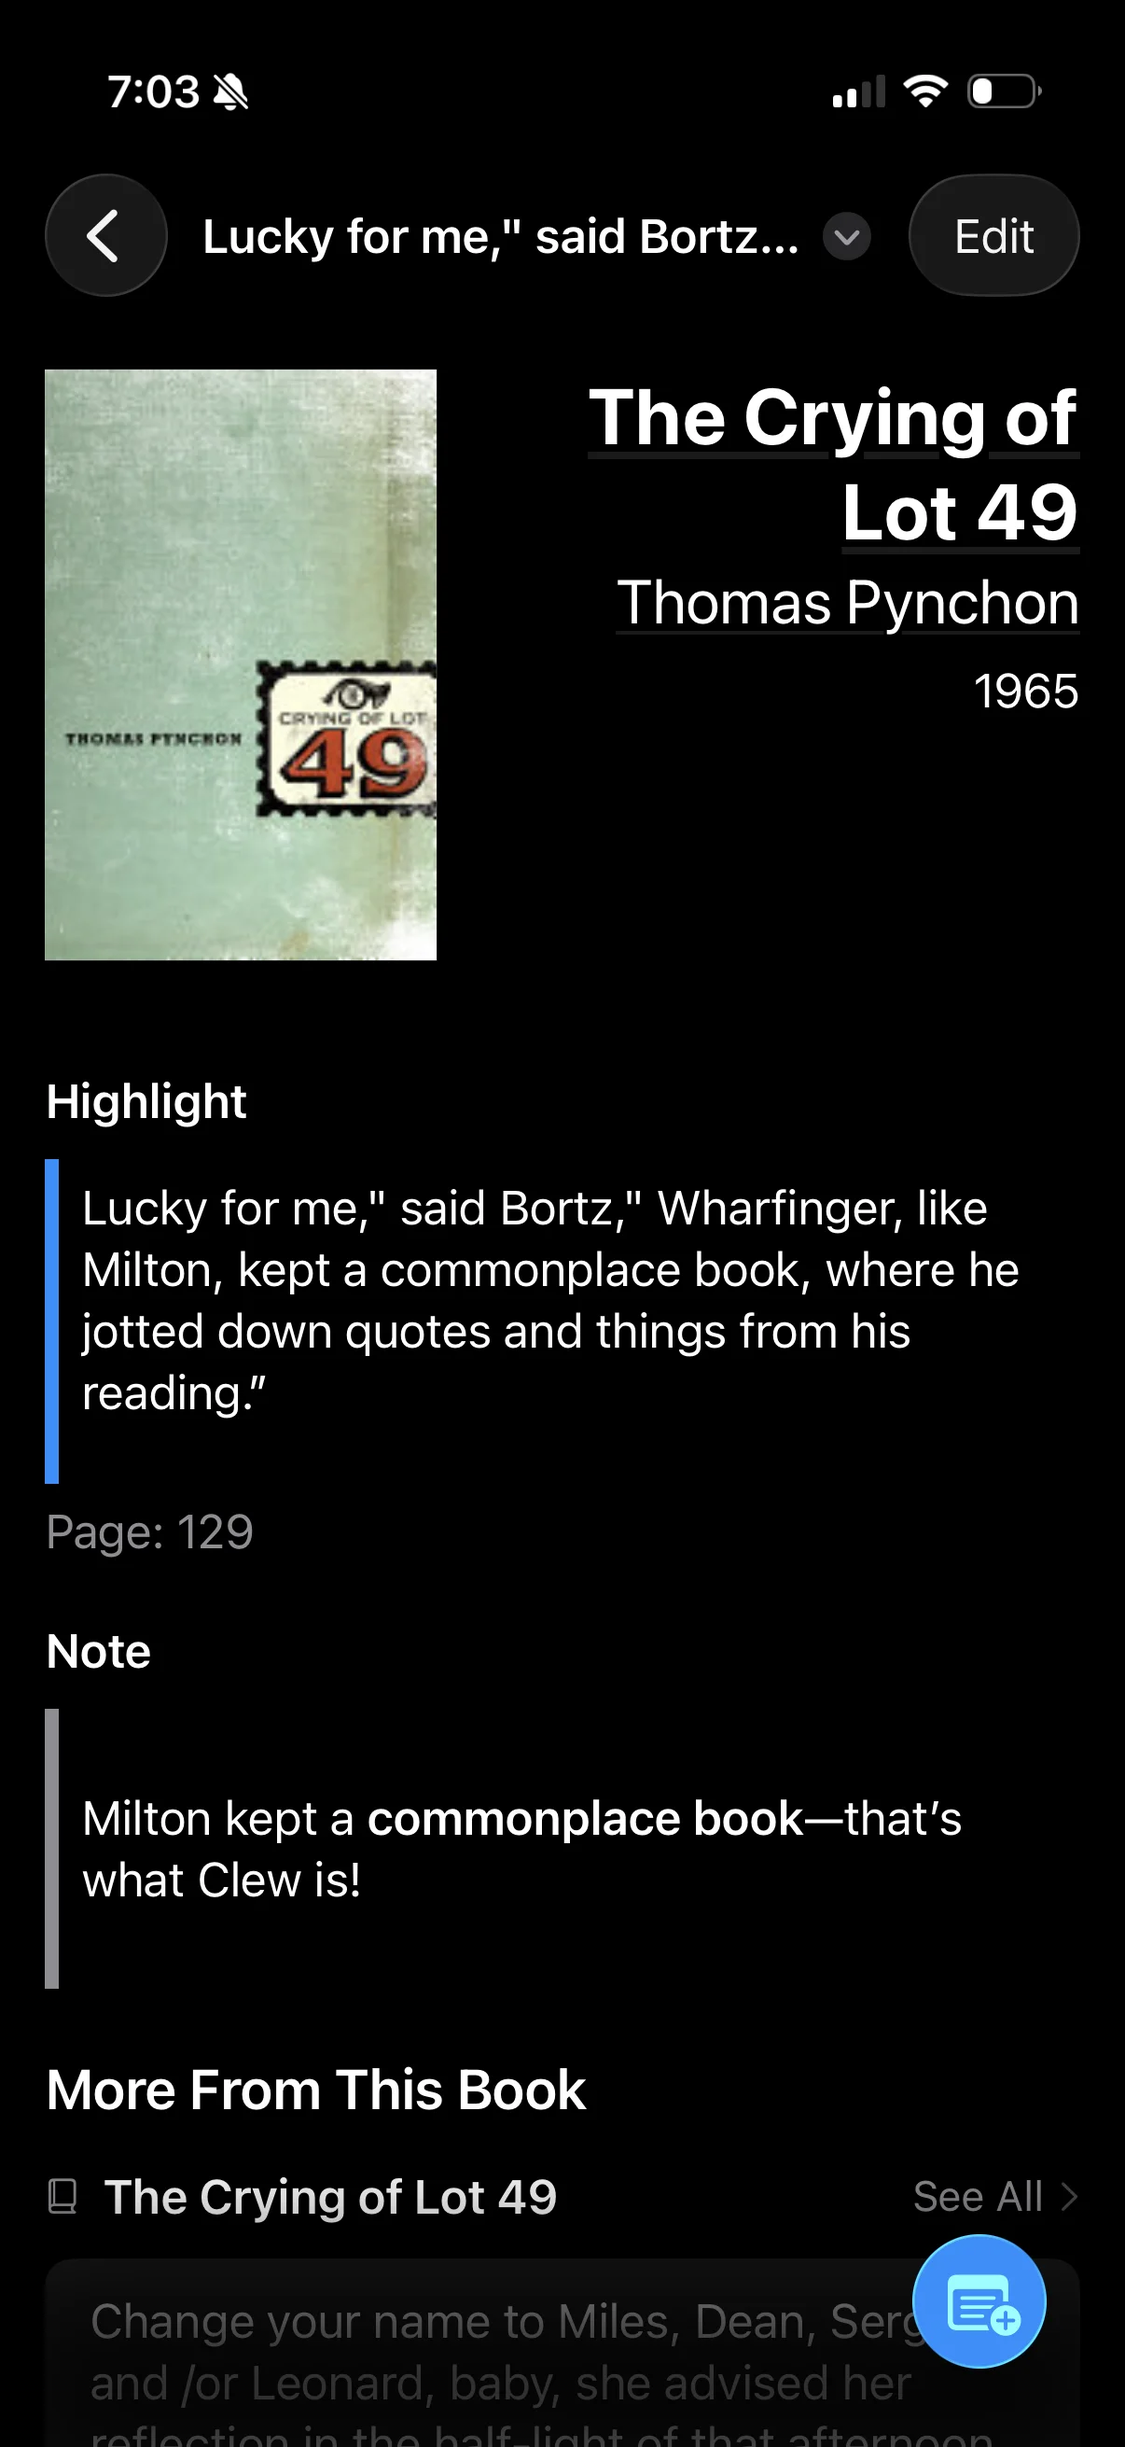
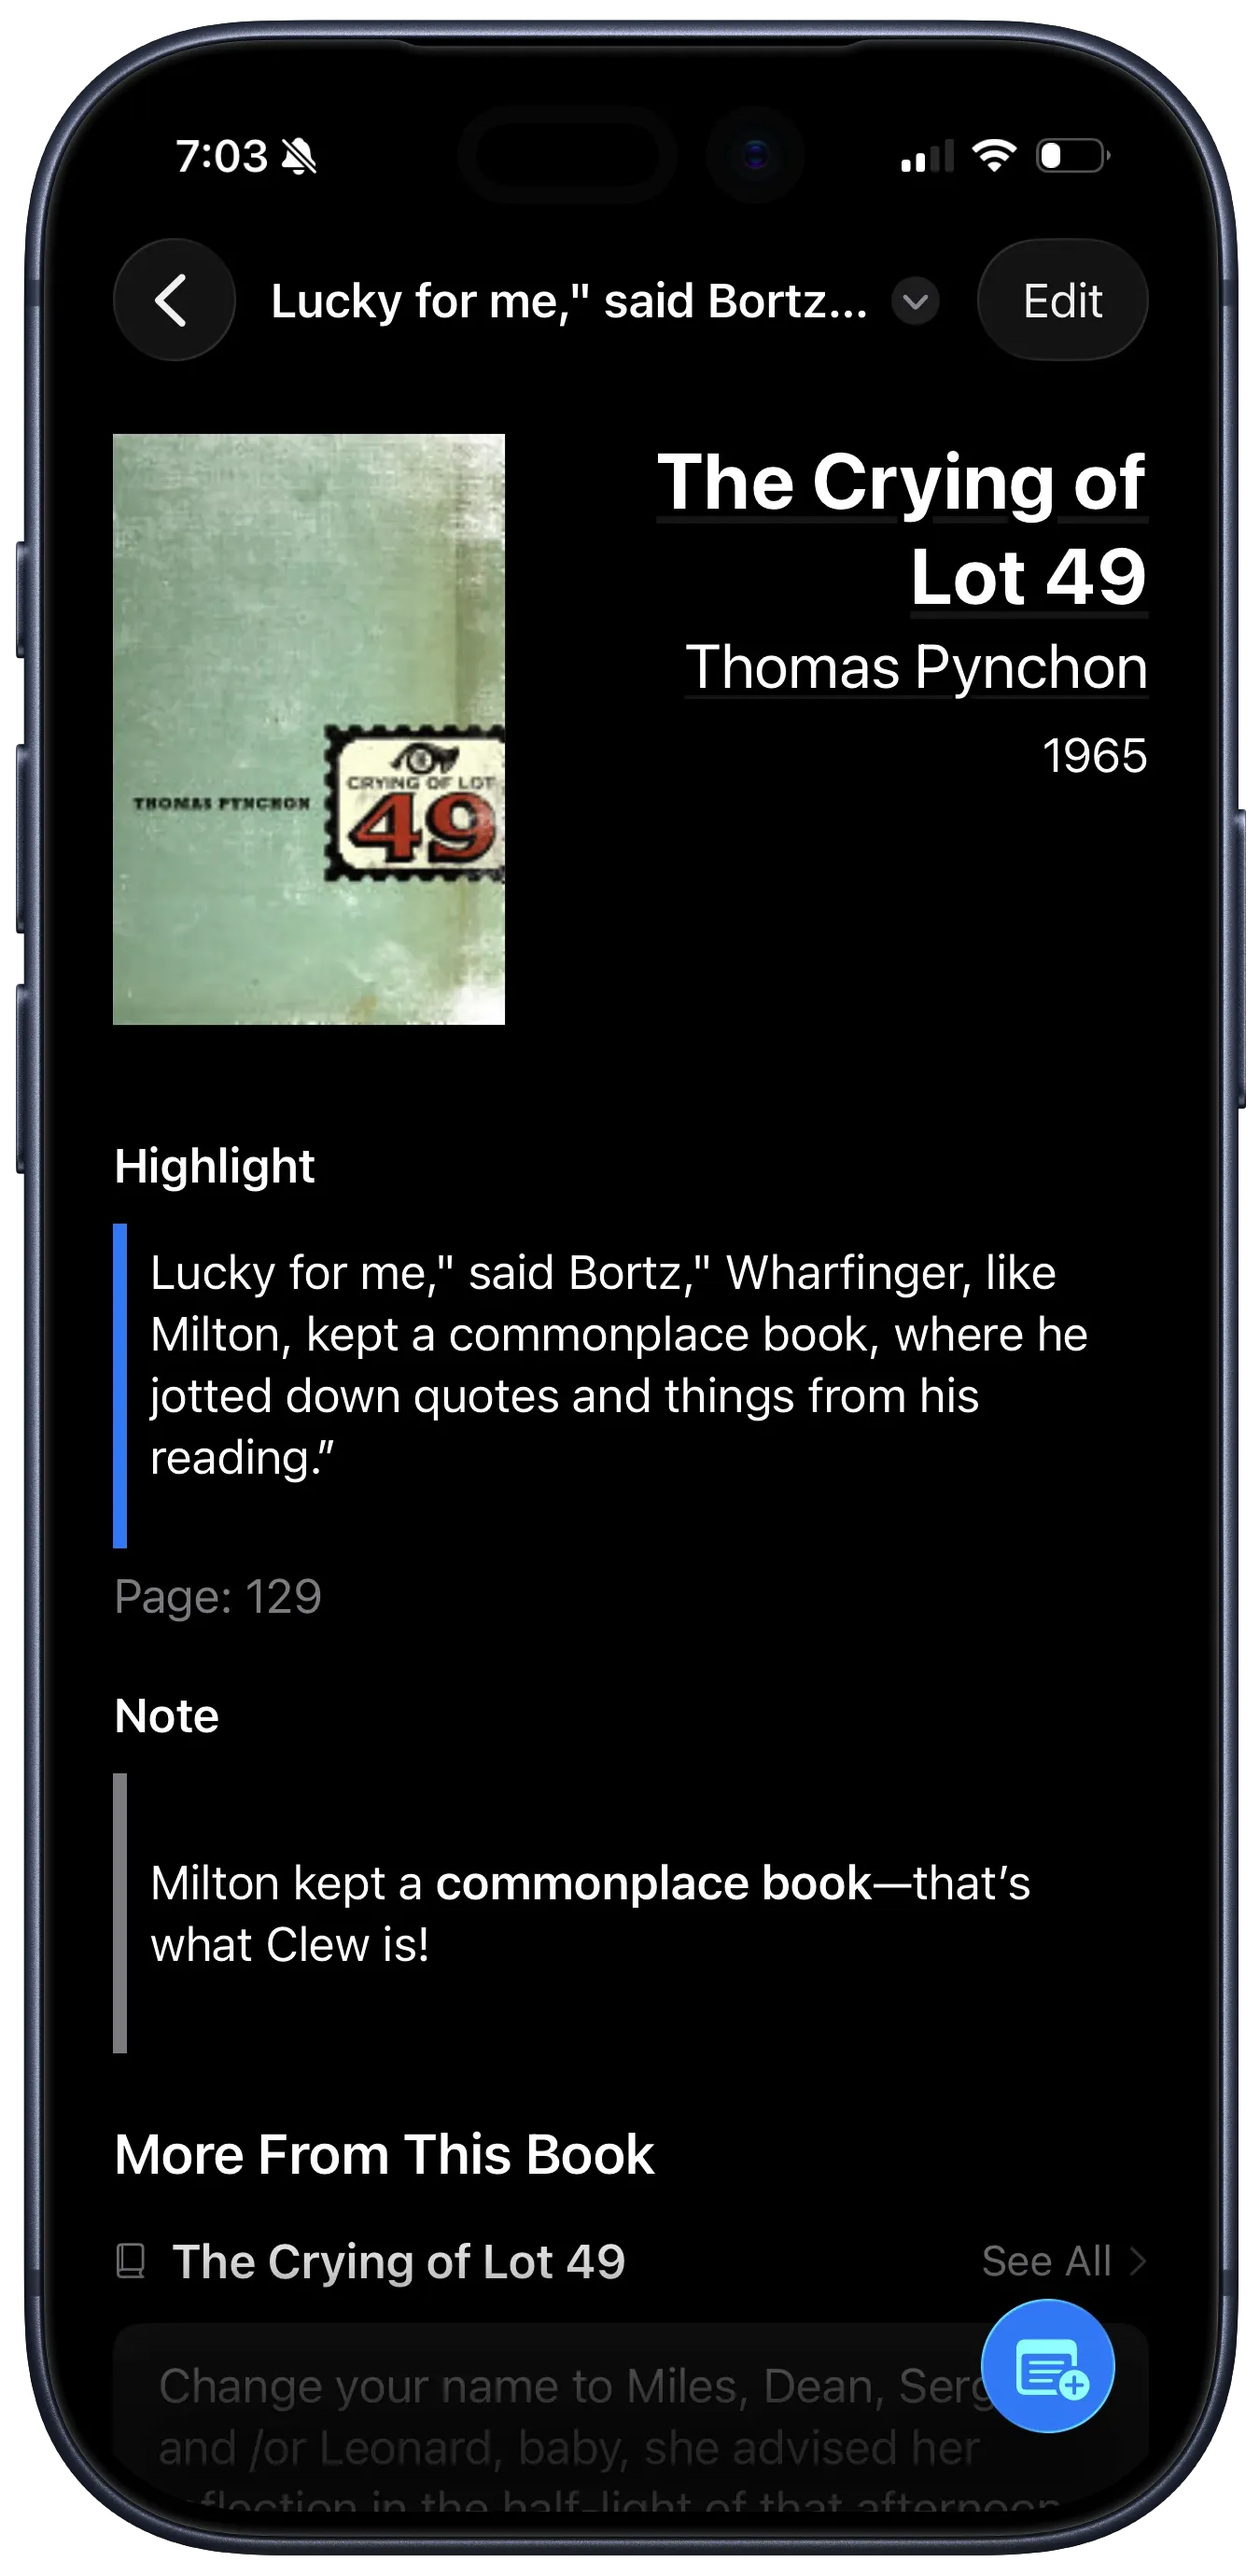
updated hero image for clew post 1
also made site text 16px instead of 18

Changed region(s): [[0.0, 0.0, 1.0, 1.0]]

diff --git a/_sass/main.scss b/_sass/main.scss
@@ -45,7 +45,7 @@
 /* Base styles */
 body {
   font-family: var(--font-serif);
-  font-size: 18px;
+  font-size: 16px;
   line-height: 1.6;
   color: var(--color-text);
   background-color: var(--color-background);
@@ -469,16 +469,9 @@ th {
 }
 
 .post-hero {
-  margin: 0 0 var(--space-l) 0;
+  margin-bottom: var(--space-l);
   height: 400px;
   overflow: hidden;
-  margin-bottom: var(--space-l);
-}
-
-.post-hero picture {
-  display: block;
-  width: 100%;
-  height: 100%;
 }
 
 .post-hero img {

diff --git a/_layouts/post.html b/_layouts/post.html
@@ -3,8 +3,12 @@ layout: default
 ---
 
 <article class="post">
-  <!-- page.image is used for Open Graph/social sharing only, not displayed as hero -->
-  
+  {% if page.image %}
+  <div class="post-hero">
+    <img src="{{ page.image | relative_url }}" alt="{{ page.title }}">
+  </div>
+  {% endif %}
+
   <header class="post-header">
     <h1 class="post-title">{{ page.title }}</h1>
     <div class="post-meta">

diff --git a/_posts/2025-12-03-clew-i-built-an-iOS-app.md b/_posts/2025-12-03-clew-i-built-an-iOS-app.md
@@ -6,7 +6,7 @@ description: I wanted a better way to write margin notes and save highlights fro
 author: Tommy Twardzik
 pinned: true
 tags: [programming, technology, project]
-image: /assets/images/clew-i-built-an-iOS-app/highlight-detail-and-book-detail-view-in-clew.webp
+image: /assets/images/clew-i-built-an-iOS-app/clew-highlights-app-screenshot-gallery-dark.webp
 ---
 
 It started when I went back to reading mostly paper books after years of trying ebooks. On paper, I'd underline passages and write margin notes, then finish the book, close it, and likely never see those highlights or notes again.
